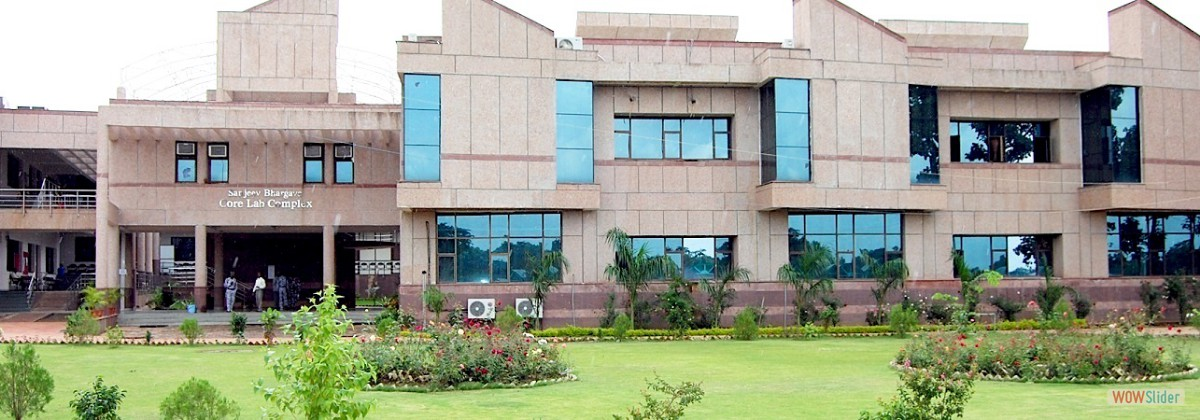
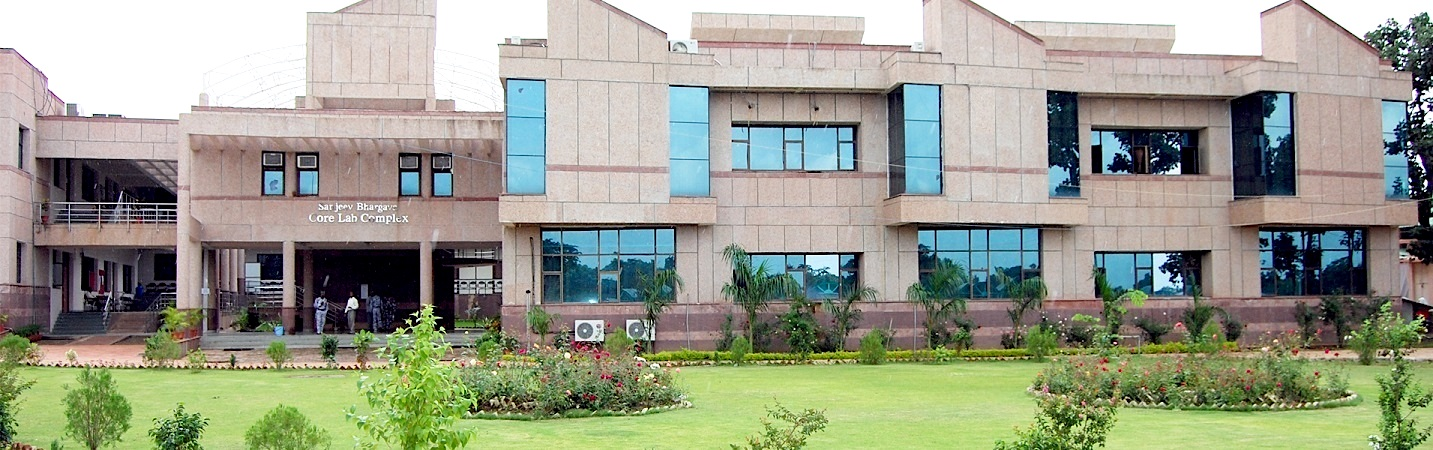
push
push

diff --git a/en/engine1/style.css b/en/engine1/style.css
@@ -24,7 +24,7 @@
 }
 #wowslider-container1 .ws_images ul{
 	position:relative;
-	width: 10000%; 
+	width: 100%; 
 	height:100%;
 	left:0;
 	list-style:none;
@@ -51,8 +51,8 @@
 	left:0;
 	top:0;
 	height:100%;
+	width: 100%;
 	max-height:420px;
-	max-width: 1200px;
 	vertical-align: top;
 	border:none;
 	overflow: hidden;

diff --git a/en/notice.php b/en/notice.php
@@ -5,7 +5,7 @@
 	</div>
 
 	<div class="noticeSlider">
-	<img class="prev" src="./Images/left_arr.png" />
+	<img class="prev" src="./Images/left_arr.png" onclick="plusSlides(-1)" />
 
 
 	<div class="noticeContent">
@@ -94,7 +94,7 @@
 	</div>
 	
 
-	<img src="./Images/right_arr.png" class="forw"/>
+	<img src="./Images/right_arr.png" class="forw" onclick="plusSlides(1)"/>
 	</div>
 </div>
 
@@ -102,8 +102,13 @@
 
 
 <script>
+
 var slideIndex = 0;
 showSlides();
+
+function plusSlides(n) {
+  showSlides(slideIndex += n);
+}
 
 function showSlides() {
   var i;
